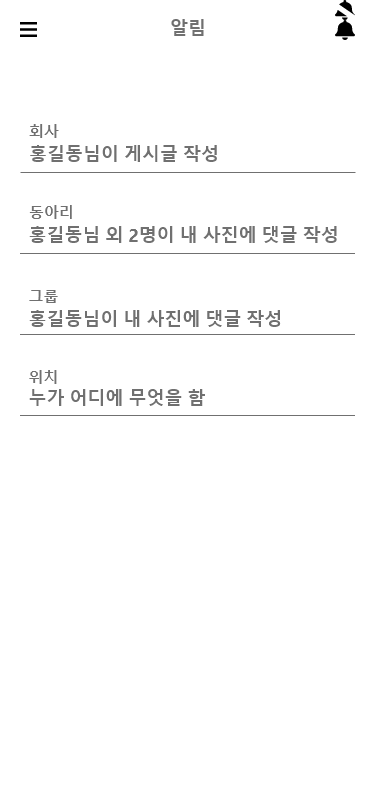
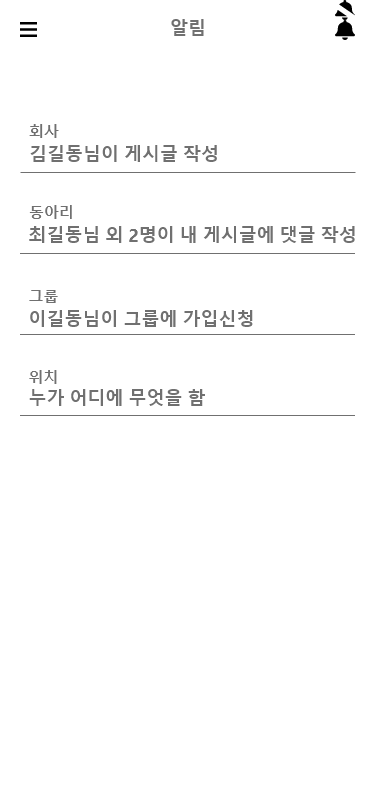
기획

diff --git a/기획.md b/기획.md
@@ -1,8 +1,13 @@
 leaf 기획
 ==
-
+<div><center>
+    <img src="./design/form/Loading.png" width="30%" height="20%" title="Loading" alt="Loading">   
+    </center></div>
+    
 ## 기획 스토리 라인
-        
+    
+
+
 1. 회원가입
 
         신입 홍길동은 A회사에 들어가 ERP 접속 계정을 받았다.
@@ -11,7 +16,14 @@ leaf 기획
         leaf어플은 회사 외적으로 사원들의 여가나 자기계발을 할 수 있는 스터디, 동호회, 동아리 같은 그룹을 만들수 있다고 한다.
         길동은 지급받은 계정으로 먼저 회원가입을 한다. (우리는 그런 절차가 없으므로 기본 회원가입 양식을 기준으로 틀을 짜서 만든다.)
         회원가입을 한 홍길동은 자신의 ERP 계정으로 로그인을 하여 홈페이지로 접속을 한다.
-
+    <div><center>
+    <img src="./design/form/Login.jpg" width="30%" height="20%" title="Login" alt="Login">
+    <img src="./design/form/resisrer.jpg" width="30%" height="20%" title="resisrer" alt="resisrer">
+    </center></div>
+    <div><center>
+    <img src="./design/form/findid.jpg" width="30%" height="20%" title="findid" alt="findid">
+    <img src="./design/form/findpassword.jpg" width="30%" height="20%" title="findpassword" alt="findpassword">
+    </center></div>
 
 2. 홈, 구성
 
@@ -21,63 +33,80 @@ leaf 기획
         회사 부분엔 카드형식으로 공지사항과 일정이 우에서 좌로 넘길 수 있는 카드형식으로 떠있다.
         카드의 내용은 회사의 일정, 공지사항, 회사게시판에서 작성된 글들이 아래와 같은 카드형식으로 보여진다.
 
-    <center> <img src="./images/Reference/card.jpg" width="30%" height="20%" title="home" alt="home"></img></center>
+    <center> <img src="./images/Reference/card.jpg" width="30%" height="20%" title="card" alt="card"></img></center>
 
         동아리와 그룹은 아무것도 가입되어있지 않아서 동아리와 그룹은 동아리에 가입하세요, 그룹에 가입하세요 라는 내용만 보인다.
         가운데 부분을 제외한 부분은 하단바와 좌측 상단에는 메뉴바가 있고 눌러보니 사이드 탭이 뜬다
         
-4. 하단 바
-    <center> <img src="./images/Reference/bottom.png" width="80%" height="30%" title="bottom" alt="bottom"></img></center>
+3. 하단 바
+    
 
         하단바에 있는 채팅창에는 회사 채팅창이 하나 보이고 소속 부서 채팅창이 보인다.
         알림창에는 처음 가입하여 들어왔기에 회원가입을 환영한다라는 알림과 프로필을 수정하라는 알림 뿐이다.
-
+    <center> <img src="./images/Reference/bottom.png" width="80%" height="30%" title="bottom" alt="bottom"></img></center>
 
 
     
-5. 사이드 탭 - 홈, 프로필, 일정
+4. 사이드 탭 - 홈, 프로필, 일정
 
-    <center> <img src="./images/Reference/menu.png" width="30%" height="30%" title="menu" alt="menu"></img></center>
+    
 
         사이드탭을 확인하니 방금 본 홈탭과 프로필을 설정하는 프로필탭 그리고 일정을 관리할 수 있는 일정탭이 보인다.
         프로필 탭에선 자신의 정보들을 보여주고 있었고 사진등을 설정할 수 있다.
         일정 탭에서는 회사, 동아리, 그룹에서 관리되는 일정들이 같이 보이는듯 하다. 따로 일정을 추가를 할 수 있는것 같다.
+    <center> <img src="./images/Reference/menu.png" width="30%" height="30%" title="menu" alt="menu"></img></center>
 
-    4.
+5. 회사
         
         그 아래에는 입사한 회사탭이 있고 탭을 눌러보니 공지사항, 일정, 겔러리, 게시판이 보인다.
         공지사항은 회사에서 ERP 프로그램으로 본 내용과 비슷한것 같다. 일정을 보니 몇몇 부서들의 회식 일정이 잡혀있는게 보인다.
         겔러리와 게시판을 보니 선임들과 타 부서 사람들이 게시한걸 볼 수 있었고 공지사항을 제외하곤 약간의 여가 정보 공유 같은 성격을 띄고 있는 듯 하다.
         그리고 공지사항 아래로 보이는 메뉴는 사내게시판과 동아리 이라는 탭이 있었으며 사내게시판에는 몇몇 선임들과 타 부서 사람들이 적어놓은 글들을 볼 수 있었고 게시글 내용 자체는 공지사항을 제외하곤 업무적이기보단 약간의 여가 정보 공유 같은 성격을 띄고 있는 듯 하다.
         
+
+    <div><center>
+    <img src="./design/form/BoardType.png" width="30%" height="20%" title="BoardType" alt="BoardType">
+    <img src="./design/form/Gallery-2.png" width="30%" height="20%" title="Gallery" alt="Gallery">
+    <img src="./design/form/Calendar.png" width="30%" height="20%" title="Calendar" alt="Calendar">
+    </center></div>    
         
-        5.
+6. 사내동아리 , 그룹
+
         다음 동아리에서는 사내에 만들어진 여러 스터디 및 동호회 등을 볼 수 있었다.
         등산, 볼링, 게임, 스프링, 알고리즘 등등 회사에서 들었던 동아리들이 보이며 그 중 스프링 스터디가 끌려서 가입을 하려 한다.
-        가입신청 폼은 실명제로 이루어 지다보니 간단하였다. 이 동아리는 승인 후 가입이기에 제출을 하고 다른 기능들을 더 살펴보려 한다.
+        가입신청 폼은 실명제로 이루어 지다보니 가입버튼 하나로 들어갈 수 있을정도로 간단하였다. 
         
+    <center>
+    <img src="./design/form/groupmain.png" width="30%" height="20%" title="groupmain" alt="groupmain">
+    <img src="./design/form/groupsearch.png" width="30%" height="20%" title="groupsearch" alt="groupsearch">
+    <img src="./design/form/Entergroup.png" width="30%" height="20%" title="Entergroup" alt="Entergroup">
+    </center>
 
-        마지막으로 그룹 탭을 눌러보니 오픈카톡방 찾기같은 느낌의 페이지가 보인다.
+        가입한 후 동아리 페이지로 들어가니 회사 페이지에서 보인것과 다른건 없었다.
+        간단하게 새로 들어온 신입이라고 소개하기위해 글을 작성한다.
+        그룹탭도 사내동아리탭과 비교해서 더 많은 그룹이 있다는것 말곤 없었다.
 
-    <center> <img src="./images/Reference/group.jpg" width="50%" height="30%" title="group" alt="group"></img></center>
+7. 동아리, 그룹 생성
 
-        그룹 리스트에는 그룹이름과 그룹장, 그룹원 수, 즉시가입 or 승인요청, 그룹소개 가 눈에 보인다. 
-        일단 부족한 지식을 채우기 위해 스프링 배우기 라는 승인요청이 필요한 사내동아리에 가입신청버튼을 눌러 그룹에서 원하는 양식을 기입 후 승인요청 버튼을 누른다.
-        그러고 더 둘러보는 도중 카카오톡으로 같은 동기들끼리 비밀그룹을 만들었다며 초대코드를 받았고 코드를 입력하니 바로 그룹을 들어갈 수 있었다.
-        비밀동기그룹에 보니 일정탭과 잡담탭이 있었고 일정탭에서는 벌써 이번주 주말에 동기회식이 있었다. 해당 달력을 눌러 일정참가를 누르니 처음 홈탭 밑에
-        일정탭에 n표시가 생기며 참가를 하려한 동기회식이 내 일정에 추가 되었다 그와동시에 떠오른 오늘받은 일주일 업무를 입력하기로 한다.
-        다시 비밀동기 탭에서 게시판을 보니 몇몇동기들이 적어놓은 글들을 확인 할 수 있었고 글을 보다보니 위에 n표시가 뜬걸 보니 채팅탭도 있길래 들어가본다.
-        접속해있는 몇몇 동기끼리 자기가 들어간 부서에 대해서 말하고 있었고 잠깐 대화를 한다.
-        동아리를 다 확인한 길동은 그 아래 그룹찾기탭을 눌러본다.
-        그 안에선 더존ERP를 사용하는 모든 회사직원들이 자유롭게 만들며 가입할 수 있는 그룹들이 있었다.
-        먼저 눈에 띄는건 내가 적은 직종에 따라 프로그래밍 정보 그룹등이 눈에 보였고
-        예전부터 하고싶었던 보드게임이 혹시나 있나 센텀 보드게임을 검색창에 쳐보니 몇몇 그룹들이 보인다.
-        양식을 입력후 가입신청을 하니 바로 가입이 되었다.
+        평소 보드게임에 관심이 생겨 그룹을 만들어 운영해보려 한다.
+        그룹 생성버튼을 누르고 그룹명과 그룹을 찾을 수 있는 키워드를 설정하고 생성버튼을 누른다. 대표가 될만한 사진은 등록할 수 있고 아니면 기본 사진으로 그림 하나가 들어가는 듯 하다.
+        생성된 그룹에 새로운 게시판을 만들고 세팅하기 위해 하단에 설정탭을 눌러본다.
         
-        센텀보드게임 그룹에서는 일정게시판과 겔러리, 일반게시판, 투표게시판이 있었으며 일정게시판에는
-        다음주 금요일 19시에 모임이 있기에 참가버튼을 눌러 내 일정에 추가하였다.
-        투표게시판에는 겨울 스키장 장소 및 날짜를 정하는 투표를 하고있었고 아직 모임을 안나가봤으니 잠시 고려하도록 한다.
-        겔러리게시판에서는 이때까지 했던 모임들에 대한 사진들을 볼 수 있었고
-        게시판에는 여러 잡담들을 볼 수 있었다.
+        그룹원일땐 보이지 않던 그룹관리 버튼이 보이고 눌러보니 게시판을 만들고 인원을 관리하는 창이 보인다.
+
+        자유게시판, 모임 후 올릴 갤러리게시판, 모임을 정할 달력게시판을 만들고 기다리기위해 어플을 끈다.
+
+    <center>
+    <img src="./design/form/Makegroup.png" width="30%" height="20%" title="Makegroup" alt="Makegroup">
+    <img src="./design/form/setting.png" width="30%" height="20%" title="setting" alt="setting">
+    <img src="./design/form/Managegroup.png" width="30%" height="20%" title="Managegroup" alt="Managegroup">
+    </center>
+
         
-        
+8. 알림
+
+        잠시 다른걸 하고 있으니 폰에서 알림이 떠있다.
+        회사 게시판에 누군가가 글을 작성했고, 사내동아리 게시판에 쓴 내 게시글에 댓글이 달린게 뜨고, 내가 만든 그룹에 누군가 가입신청한게 보인다. 우측 상단 버튼으로 알림을 잠시 꺼두기로 한다.
+    
+    <center> <img src="./design/form/notifications.png" width="30%" height="20%" title="notifications" alt="notifications"></center>
+
